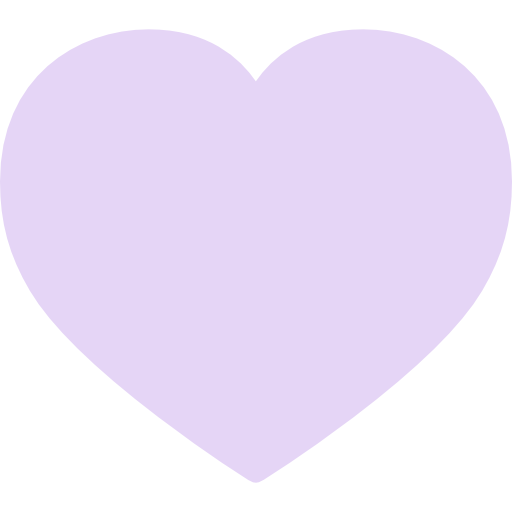
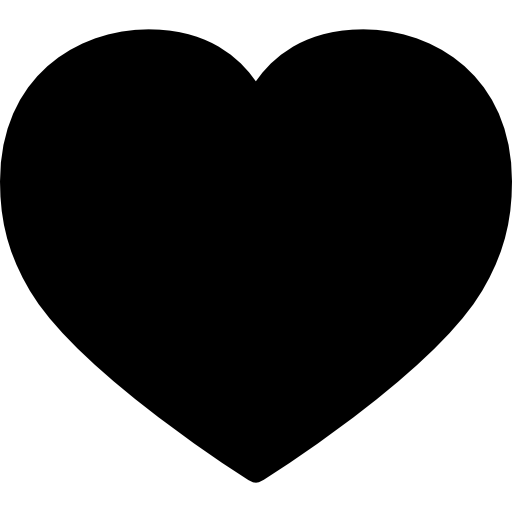
modificat css product short display + schimbat favorite image

diff --git a/src/components/ProductShortDisplay/ProductShortDisplay.css b/src/components/ProductShortDisplay/ProductShortDisplay.css
@@ -22,29 +22,41 @@
 .favorite_button {
   position: absolute;
   right: 0;
-  transform: translateX(-40%);
+  transform: translateX(-20%);
   width: 20%;
   height: 100%;
+  display: flex;
+  justify-content: center;
+  align-items: start;
 }
 
 .favorite_button:hover {
   cursor: pointer;
 }
 
-.favorite_button_image {
-  height: 10%;
-  width: 100%;
-  border: 5px;
-  background-color: white;
+.heart_icon_container {
+  background-color: #e5d5f6;
   border-radius: 50%;
-  padding: 5% 10%;
+  height: 55px;
+  width: 55px;
+  display: flex;
+  justify-content: center;
+  align-items: center;
+}
+
+.favorite_button_image {
+  height: 70%;
+  border: 5px;
+  border-radius: 50%;
+  /* padding: 5% 10%; */
   box-sizing: border-box;
 }
 
 .product_short_display_image {
   align-self: center;
   object-fit: contain;
-  height: 50%;
+  max-height: 50%;
+  margin-bottom: 1rem;
   width: 95%;
   box-sizing: border-box;
 }
@@ -72,5 +84,4 @@
 }
 
 .name_container {
-  height: 20%;
 }

diff --git a/src/components/ProductShortDisplay/ProductShortDisplay.jsx b/src/components/ProductShortDisplay/ProductShortDisplay.jsx
@@ -108,10 +108,12 @@ const ProductShortDisplay = ({ product, className }) => {
           HandleFavoriteButtonClick();
         }}
       >
-        <img
-          className="favorite_button_image"
-          src={isFavorite ? favoriteImage : notFavoriteImage}
-        />
+        <div className="heart_icon_container">
+          <img
+            className="favorite_button_image"
+            src={isFavorite ? favoriteImage : notFavoriteImage}
+          />
+        </div>
       </div>
       <img className="product_short_display_image" src={imageSrc} />
       <div className="name_container">

diff --git a/src/pages/order_completed/order_completed.jsx b/src/pages/order_completed/order_completed.jsx
@@ -1,4 +1,4 @@
-import { React, useState } from "react";
+import { React, useEffect, useState } from "react";
 import "./order_completed.css";
 import NavBar from "../../components/NavBar/NavBar";
 
@@ -6,6 +6,10 @@ const Order_completed = () => {
   const [lists, setLists] = useState([]);
   const [currentListIndex, setCurrentListIndex] = useState(0);
   const [currentListProducts, setCurrentListProducts] = useState([]);
+
+  useEffect(() => {
+    window.scrollTo(0, 0);
+  }, []);
   return (
     <div className="order_completed_page">
       <NavBar />

diff --git a/src/pages/home/home.jsx b/src/pages/home/home.jsx
@@ -71,6 +71,10 @@ const Home = () => {
   //   //console.log(productsFavoriteStatuses);
   // }, [productsFavoriteStatuses]);
 
+  useEffect(() => {
+    window.scrollTo(0, 0);
+  }, []);
+
   return (
     <div className="home">
       <HomeContext.Provider

diff --git a/src/pages/product_page/product_page.jsx b/src/pages/product_page/product_page.jsx
@@ -51,6 +51,10 @@ const ProductPage = () => {
     navigate("/product");
   };
 
+  useEffect(() => {
+    window.scrollTo(0, 0);
+  }, []);
+
   return (
     <div className="product_page">
       <NavBar />

diff --git a/src/pages/SearchPage/SearchPage.css b/src/pages/SearchPage/SearchPage.css
@@ -84,7 +84,7 @@
   display: flex;
   flex-direction: column;
   position: relative;
-  height: 20rem;
+  height: 25rem;
   box-sizing: border-box;
   background-color: rgb(143, 75, 216);
   margin: 0;

diff --git a/src/pages/Register/Register.jsx b/src/pages/Register/Register.jsx
@@ -43,6 +43,7 @@ const Register = () => {
 
   useEffect(() => {
     setIsRegisterPageActive(true);
+    window.scrollTo(0, 0);
     return () => {
       setIsRegisterPageActive(false);
     };

diff --git a/src/components/RatingStars/RatingStars.css b/src/components/RatingStars/RatingStars.css
@@ -6,8 +6,9 @@
 .rating_stars_row {
   display: flex;
   width: 100%;
-  height: 60px;
+  height: fit-content;
   align-items: center;
+  margin-bottom: auto;
 }
 
 .rating_stars_number {

diff --git a/src/pages/shopping_cart/shopping_cart.jsx b/src/pages/shopping_cart/shopping_cart.jsx
@@ -31,6 +31,7 @@ const shopping_cart = () => {
 
   useEffect(() => {
     Initialize();
+    window.scrollTo(0, 0);
   }, []);
 
   const GetProductsFromBackend = async () => {

diff --git a/src/pages/profile/profile.jsx b/src/pages/profile/profile.jsx
@@ -38,6 +38,7 @@ const profile = () => {
 
   useEffect(() => {
     ProfileInitialize();
+    window.scrollTo(0, 0);
   }, []);
 
   const HandleProfileClick = () => {

diff --git a/src/pages/add_product_to_database/add_product_to_database.jsx b/src/pages/add_product_to_database/add_product_to_database.jsx
@@ -73,6 +73,7 @@ const Add_product_to_database = () => {
 
   useEffect(() => {
     Initialize();
+    window.scrollTo(0, 0);
   }, []);
 
   useEffect(() => {

diff --git a/src/pages/favorites/favorites.jsx b/src/pages/favorites/favorites.jsx
@@ -51,6 +51,7 @@ const favorites = () => {
 
   useEffect(() => {
     FavoritesInitialize();
+    window.scrollTo(0, 0);
   }, []);
 
   useEffect(() => {
